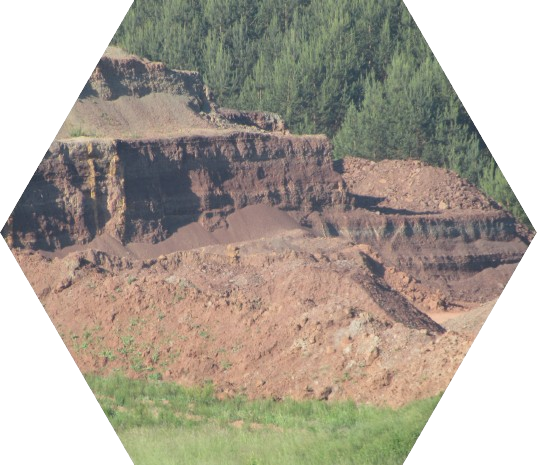
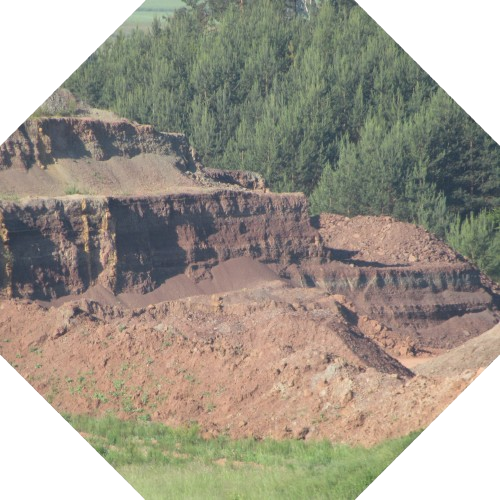
overworked the images

diff --git a/index.html b/index.html
@@ -13,9 +13,11 @@
 
         const straw=new Image(220, 200);
         straw.src="img/straw.png";
+        
 
-        const steppe=new Image(220, 200)
+        const steppe=new Image(220, 200);
         steppe.src="img/steppe.png";
+        
 
         for (let i=1; i<2;i++){
             document.body.appendChild(straw)+i;

diff --git a/imagesources.md b/imagesources.md
@@ -1,6 +1,6 @@
 mountain: https://commons.wikimedia.org/wiki/File:Temlberg_Totes_Gebirge_20220722.jpg
 
-steppe: https://commons.wikimedia.org/wiki/File:Steppe_of_western_Kazakhstan_in_the_early_spring.jpg
+steppe: https://commons.wikimedia.org/wiki/File:Ulrichstein_Schafweide.JPG
 
 forrest: https://commons.wikimedia.org/wiki/File:Coniferous_forest_in_Sweden_near_the_Svart%C3%A4lven_river_04.jpg
 
